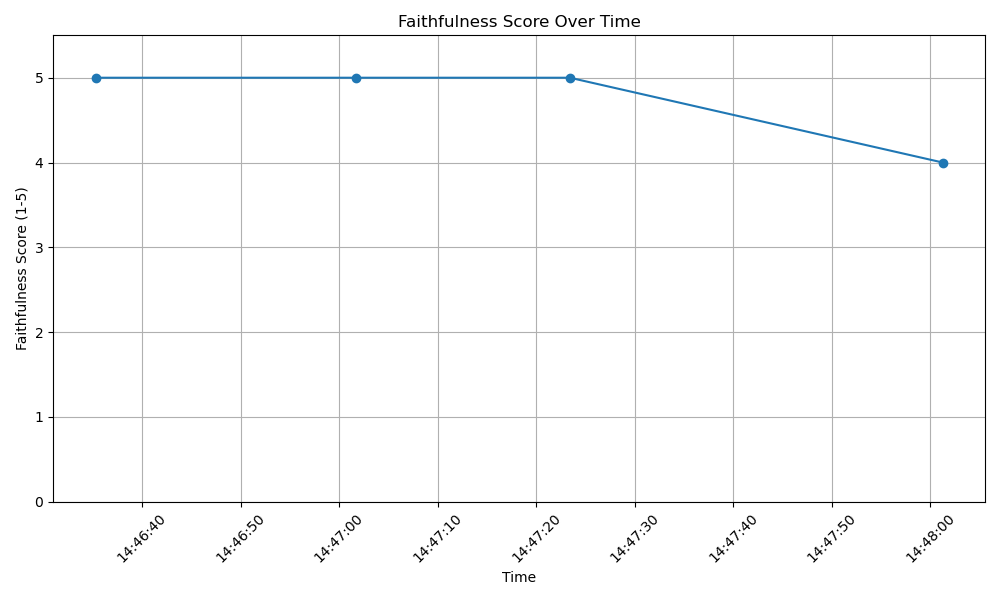
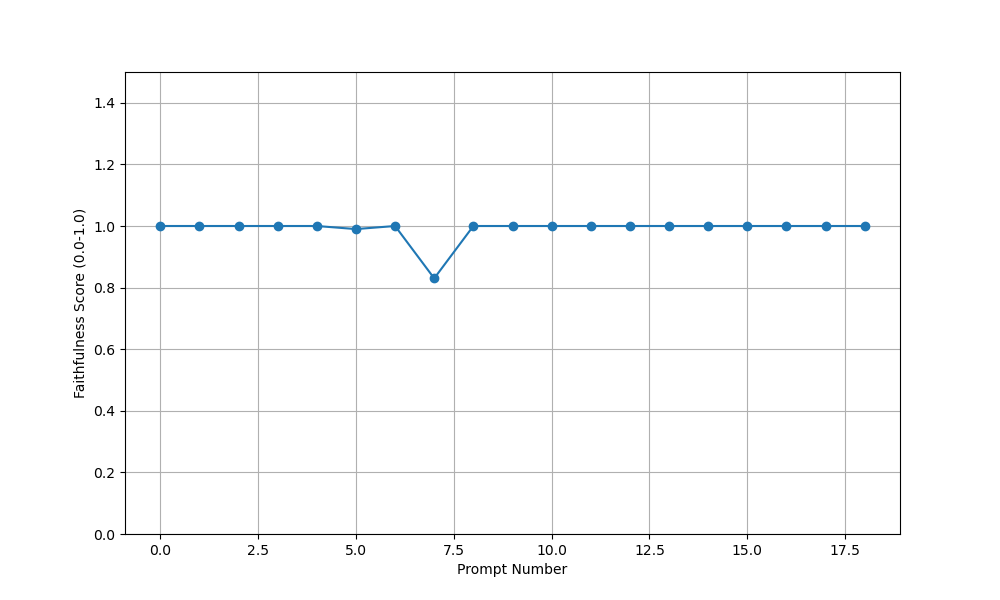
mudança para que seja possível carregar o arquivo de o diretorio data caso a url não esteja on-line, mudança de local para armazenamento das respostas e da imagem do fact-score

diff --git a/utils.py b/utils.py
@@ -1,4 +1,3 @@
-from dotenv import load_dotenv
 import requests
 import tempfile
 import os
@@ -9,16 +8,26 @@ import csv
 from datetime import datetime
 
 def load_pdf(url):
-    response = requests.get(url)
-    response.raise_for_status() 
-    
-    with tempfile.NamedTemporaryFile(delete=False, suffix=".pdf") as tmp_file:
-        tmp_file.write(response.content)
-        tmp_file_path = tmp_file.name
+    """Tenta carregar um PDF da URL. Se falhar, usa o caminho de fallback local."""
+    abs_path = os.path.abspath(__file__)
+    dir_path = os.path.dirname(abs_path)
 
-    return tmp_file_path
+    fallback_path = os.path.join(dir_path,"data", "Novo.pdf")
+    try:
+        response = requests.get(url, timeout=10)
+        response.raise_for_status()
+        
+        with tempfile.NamedTemporaryFile(delete=False, suffix=".pdf") as tmp_file:
+            tmp_file.write(response.content)
+            tmp_file_path = tmp_file.name
+        print("PDF carregado com sucesso da URL.")
+        return tmp_file_path, 1
+    except requests.exceptions.RequestException as e:
+        print(f"Falha ao carregar da URL ({e}). Usando o arquivo de fallback: {fallback_path}")
+        return fallback_path, 0
 
-def split_pdf(tmp_file_path):
+
+def split_pdf(tmp_file_path, is_url):
     try:
         loader = PyPDFLoader(tmp_file_path)
         data = loader.load()
@@ -29,21 +38,23 @@ def split_pdf(tmp_file_path):
         )
         splits = text_splitter.split_documents(data)
     finally:
-        os.remove(tmp_file_path)
+        if is_url:
+            os.remove(tmp_file_path)
 
     return splits
 def format_docs(docs):
   return "\n\n".join([d.page_content for d in docs])
 
-def save_score(question, answer, score, filename="evaluation/faithfulness_scores.csv"):
+def save_score(question, answer, score, save_path, filename="faithfulness_scores.csv"):
     """Saves the faithfulness score to a CSV file."""
     # Garante que o diretório 'evaluation' exista
-    output_dir = os.path.dirname(filename)
-    if not os.path.exists(output_dir):
-        os.makedirs(output_dir)
+    output_dir = os.path.join(save_path, filename)
+    #output_dir = os.path.dirname(filename)
+    if not os.path.exists(save_path):
+        os.makedirs(save_path)
 
-    file_exists = os.path.isfile(filename)
-    with open(filename, 'a', newline='', encoding='utf-8') as csvfile:
+    file_exists = os.path.isfile(output_dir)
+    with open(output_dir, 'a', newline='', encoding='utf-8') as csvfile:
         fieldnames = ['timestamp', 'question', 'answer', 'faithfulness_score']
         writer = csv.DictWriter(csvfile, fieldnames=fieldnames)
 

diff --git a/llm.py b/llm.py
@@ -6,10 +6,15 @@ from langchain_core.prompts import ChatPromptTemplate
 from langchain_core.runnables import RunnablePassthrough, RunnableParallel
 from langchain_core.output_parsers import StrOutputParser, BaseOutputParser
 from langchain_google_genai import ChatGoogleGenerativeAI
-import asyncio
-#from langchain.schema import BaseOutputParser
+import os
 import re
 
+def load_and_split(url):
+    print(f"Carregando o PDF da URL: {url}...")
+    tmp_path, is_url = load_pdf(url)
+    print("Dividindo o PDF em partes...")
+    splits = split_pdf(tmp_path, is_url)
+    return splits
 
 class ScoreParser(BaseOutputParser):
     def parse(self, text: str) -> float:
@@ -47,12 +52,6 @@ Avaliação de Fidelidade (0-1):
     return prompt | llm | ScoreParser()
 
 
-def load_and_split(url):
-    print(f"Carregando o PDF da URL: {url}...")
-    tmp_path = load_pdf(url)
-    print("Dividindo o PDF em partes...")
-    splits = split_pdf(tmp_path)
-    return splits
 
 def create_vectorstore(splits, collection_name):
     print("Criando base de vetores")
@@ -114,6 +113,9 @@ class Chatbot:
         self.rag_chain_with_source = create_rag_chain_with_source(self.retriever, self.prompt)
         self.faithfulness_chain = create_faithfulness_chain()
         print("Chatbot inicializado e pronto para receber perguntas.")
+        abs_path = os.path.abspath(__file__)
+        dir_path = os.path.dirname(abs_path)
+        self.save_path = os.path.join(dir_path, "evaluation")
 
     async def generate_response(self, question: str):
         if not self.rag_chain_with_source:
@@ -127,10 +129,10 @@ class Chatbot:
         if context_docs:
             context_str = format_docs(context_docs)
             score = await self.faithfulness_chain.ainvoke({"context": context_str, "answer": answer})
-            save_score(question, answer, score)
+            save_score(question, answer, score, self.save_path)
             return f"{answer}\n\n---\n**Faithfulness:** {score:.1f}/1.0" # Formats the output string
         else:
-            save_score(question, answer, 0.0)
+            save_score(question, answer, 0.0, self.save_path)
             return f"{answer}\n\n---\n**Faithfulness:** N/A (no context retrieved)"
 
     async def process_questions_from_file(self, file_obj):
@@ -155,6 +157,3 @@ class Chatbot:
         
         return f"Processamento em lote concluído para {len(questions)} perguntas. Verifique o console para ver as respostas."
 
-
-def calc_distances(question, vectorstore):
-    pass

diff --git a/plot_scores.py b/plot_scores.py
@@ -2,13 +2,13 @@ import pandas as pd
 import matplotlib.pyplot as plt
 import os
 
-def plot_faithfulness_scores(filename="evaluation/faithfulness_scores.csv"):
+def plot_faithfulness_scores(csv_path, save_path, filename="faithfulness_scores.csv"):
     """Reads the scores from the CSV and creates a plot."""
     output_dir = "evaluation"
     os.makedirs(output_dir, exist_ok=True)
 
     try:
-        df = pd.read_csv(filename)
+        df = pd.read_csv(csv_path)
     except FileNotFoundError:
         print(f"Error: The file {filename} was not found.")
         return
@@ -19,13 +19,13 @@ def plot_faithfulness_scores(filename="evaluation/faithfulness_scores.csv"):
 
     plt.figure(figsize=(10, 6))
     plt.plot(df.index, df['faithfulness_score'], marker='o')
-    plt.title('Faithfulness Score per Entry')
+    plt.title('Fact Score                                                                                                                                                                                                                                       per Entry')
     plt.xlabel('Prompt Number')
-    plt.ylabel('Faithfulness Score (1-5)')
+    plt.ylabel('Faithfulness Score (0.0-1.0)')
     plt.grid(True)
-    plt.ylim(0, 5.5)
+    plt.ylim(0, 1.5)
     
-    plot_filename = os.path.join(output_dir, 'faithfulness_scores_plot.png')
+    plot_filename = os.path.join(save_path, 'faithfulness_scores_plot.png')
     plt.savefig(plot_filename)
     print(f"Plot saved to {plot_filename}")
 

diff --git a/main.py b/main.py
@@ -5,11 +5,12 @@ from plot_scores import plot_faithfulness_scores
 import os
 
 def show_plot():
-    csv_path = 'evaluation/faithfulness_scores.csv'
-    plot_filename = 'evaluation/faithfulness_scores_plot.png'
+    dir_path = os.path.dirname(os.path.abspath(__file__))
+    csv_path = os.path.join(dir_path, 'evaluation', 'faithfulness_scores.csv')
+    plot_filename = os.path.join(dir_path, 'evaluation', 'faithfulness_scores_plot.png')
     if not os.path.exists(csv_path):
         return None
-    plot_faithfulness_scores()
+    plot_faithfulness_scores(csv_path, save_path=os.path.join(dir_path,'evaluation'))
     return plot_filename
 
 def main():
@@ -72,7 +73,6 @@ def main():
     demo.launch(share=True)
 
 if __name__ == "__main__":
-    # Corrige um problema de loop de eventos do asyncio no Windows
-    # que causa o travamento do Gradio com funções assíncronas.
+
     asyncio.set_event_loop_policy(asyncio.WindowsSelectorEventLoopPolicy())
     main()

diff --git a/README.md b/README.md
@@ -1,2 +1,50 @@
-# RAG
-Trabalho da disciplina de Redes Neurais 2025 
+# Chatbot RAG com Gradio e Avaliação de Fidelidade
+
+Este projeto foi feito como trabalho para disciplina de Redes Neurais da UFMS em 2025/2 e implementa um chatbot de Recuperação Aumentada de Geração (RAG) que utiliza um documento PDF como base de conhecimento. A interface do usuário é construída com Gradio, permitindo que os usuários façam perguntas e recebam respostas baseadas no conteúdo do PDF, com uma avaliação automática da fidelidade da resposta.
+
+## Funcionalidades
+
+*   **Carregamento de PDF via URL:** O sistema baixa um PDF de uma URL especificada.
+*   **Fallback para Arquivo Local:** Caso o download falhe, o sistema utiliza um arquivo PDF local (`data/Novo.pdf`).
+*   **Geração de Respostas com RAG:** Utiliza a biblioteca LangChain para dividir o documento, criar embeddings (vetores) e gerar respostas contextuais com um modelo de linguagem do Google (Gemini).
+*   **Avaliação de Fidelidade (Faithfulness):** Cada resposta é avaliada em uma escala de 0 a 1 para indicar o quão fiel ela é ao contexto extraído do documento.
+*   **Interface Web com Gradio:** Uma interface simples para interagir com o chatbot.
+*   **Visualização de Scores:** Gera e exibe um gráfico com os scores de fidelidade das perguntas feitas.
+*   **Processamento em Lote:** Permite o upload de um arquivo `.txt` com múltiplas perguntas para serem processadas de uma vez.
+
+## Pré-requisitos
+
+*   Python 3.9 ou superior
+*   Uma chave de API do Google para acesso aos modelos Gemini. Você pode obter uma no Google AI Studio.
+
+## Instalação
+
+1.  **Clone o repositório:**
+    ```bash
+    git clone <URL_DO_SEU_REPOSITORIO>
+    cd RAG
+    ```
+
+3.  **Instale as dependências:**
+    Em um venv ou umam maquina virtual com python
+
+    Execute o comando de instalação:
+    ```bash
+    pip install -r requirements.txt
+    ```
+
+4.  **Configure sua chave de API:**
+    Crie um arquivo chamado `.env` na raiz do projeto e adicione sua chave da API do Google:
+    ```
+    GOOGLE_API_KEY="SUA_CHAVE_DE_API_AQUI"
+    ```
+
+## Como Executar
+
+Para iniciar a aplicação e a interface do Gradio, execute o seguinte comando no terminal, a partir da pasta raiz do projeto:
+
+```bash
+python main.py
+```
+
+Abra o endereço local (geralmente `http://127.0.0.1:7860`) que aparecerá no seu terminal para acessar a interface do chatbot.
